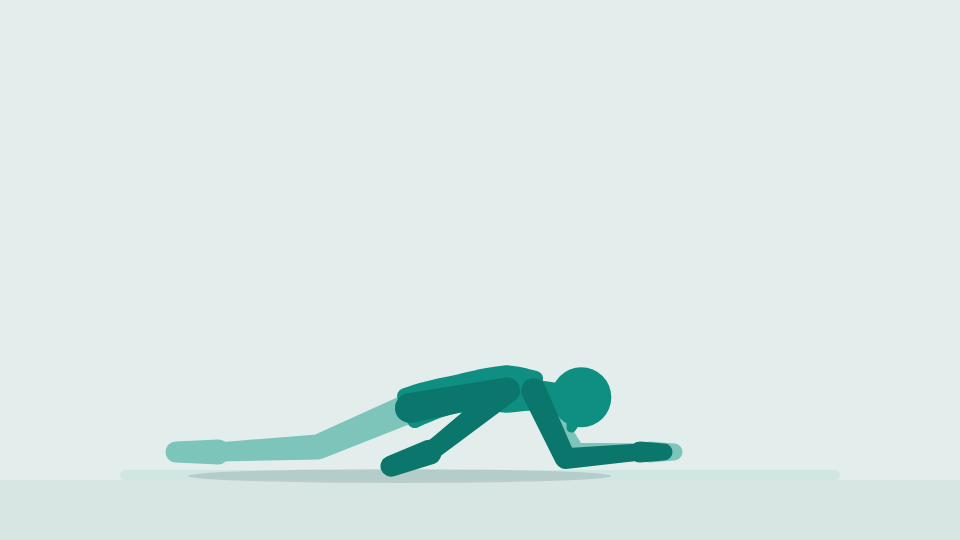
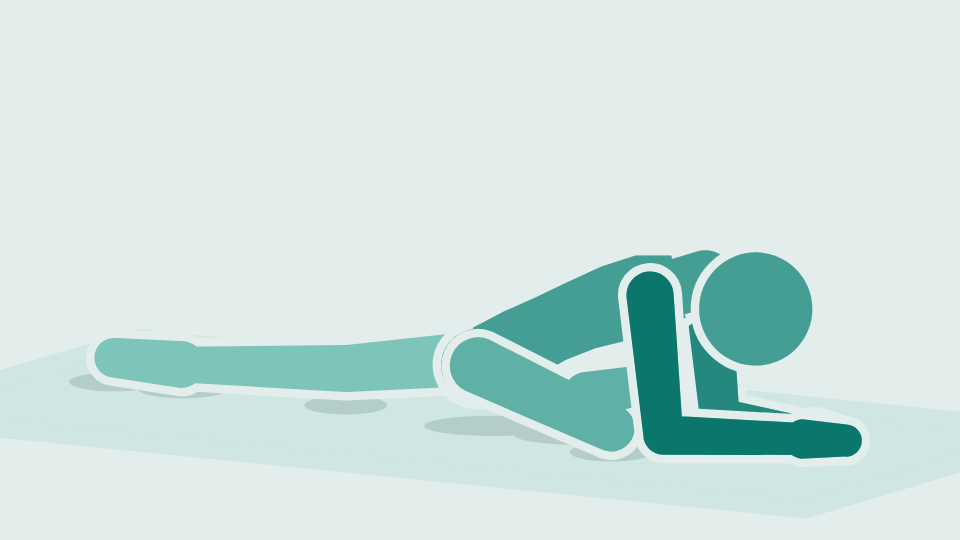
Add 3D animation for Pigeon Stretch
- From all fours the back leg stretches straight out first, the hips easing back over the
  planted right knee; then the right knee slides forward low to behind the wrist as the hips
  come down, the shin sweeping round to lie across, and the body folds onto the forearms.
- Shared helpers for stretching the back leg out from all fours and leaning onto the hands or
  forearms.
- Test for the order of the setup, the pigeon shape and the fold; README migration list and
  library photo updated.

Claude-Session: https://claude.ai/code/session_01Rr2sE7QdRG7sS5dnAH1qhg

Changed region(s): [[0.0625, 0.4444, 0.9062, 0.9185]]

diff --git a/src/data/exercise-animations-3d.ts b/src/data/exercise-animations-3d.ts
@@ -4010,3 +4010,191 @@ export const COW_FACE_ARMS_3D: Clip3D = {
     ...alongArc(2200, COW_FACE_STEPS, (t) => cowFaceAt(1 - t)),
   ],
 };
+
+// --- From all fours, the left leg stretching straight back, and leaning onto the hands or forearms: for the pigeon stretch ---
+
+/** On all fours the hips are over the knees, the right one here on the floor. */
+const ALL_FOURS_RIGHT_KNEE: Vec3 = [0, ANKLE_Y, SKELETON.hip];
+/** With the back leg stretched out, the hips have rolled back this far around the planted right knee. */
+const LEG_BACK_HIPS_BACK = 25;
+/** The hips this far (0 to 1) into rolling back around the right knee as the left leg stretches out. */
+const hipsRolledBack = (extend: number): Vec3 => {
+  const back = radians(LEG_BACK_HIPS_BACK * extend);
+  return [ALL_FOURS_RIGHT_KNEE[0] - SKELETON.thigh * Math.sin(back), ANKLE_Y + SKELETON.thigh * Math.cos(back), 0];
+};
+/** The direction a straight back leg runs in from a hip at this height down to the top of its foot on the floor. */
+const backLineFrom = (hipY: number): Vec3 => {
+  const drop = hipY - ANKLE_Y;
+  const length = SKELETON.thigh + SKELETON.shin;
+  return [-Math.sqrt(length ** 2 - drop ** 2) / length, -drop / length, 0];
+};
+/**
+ * The left foot, from the leg kneeling on all fours (0) to stretched straight back behind `pelvis`
+ * (1), the toes on the floor. The knee slides back along the floor a thigh's length behind the hip
+ * and the shin swings into line with the thigh, so the knee lifts off the floor only as the leg
+ * straightens. Left to its pole, the knee dropped through the floor while the hips were still high.
+ */
+const leftLegBack = (pelvis: Vec3, extend: number): Pin => {
+  const hip: Vec3 = [pelvis[0], pelvis[1], -SKELETON.hip];
+  const line = backLineFrom(hip[1]);
+  const kneeY = mix(ANKLE_Y, hip[1] + SKELETON.thigh * line[1], extend);
+  const knee: Vec3 = [hip[0] - Math.sqrt(Math.max(0, SKELETON.thigh ** 2 - (hip[1] - kneeY) ** 2)), kneeY, -SKELETON.hip];
+  const shin = turnToward([-1, 0, 0], line, extend);
+  // The knee is always below the line from the hip to the foot, so pointing it at the floor puts it
+  // there; aimed at the knee itself, the pole came to nothing once the leg was straight.
+  return { at: along3(knee, shin, 0.998 * SKELETON.shin), toward: [-1, 0, 0], pole: [0, -1, 0] };
+};
+/** A direction as a unit vector, from any list of three numbers. */
+const unitOf = (v: readonly number[]): Vec3 => {
+  const length = Math.hypot(...v);
+  return [v[0] / length, v[1] / length, v[2] / length];
+};
+
+/**
+ * The lean, between `from` and `to`, at which `gap(lean)` comes to zero, for a body tipping forward
+ * until its shoulders are where the arms reach. `gap` has to grow (or shrink) steadily across it.
+ */
+const leanWhere = (gap: (lean: number) => number, from: number, to: number): number => {
+  let [a, b] = [from, to];
+  const rising = gap(b) > gap(a);
+  for (let i = 0; i < 40; i++) {
+    const middle = (a + b) / 2;
+    if (gap(middle) > 0 === rising) b = middle;
+    else a = middle;
+  }
+  return (a + b) / 2;
+};
+/** An elbow resting on the floor sits this high, and a forearm flat on it. */
+const ELBOW_Y = 10;
+/**
+ * The forearm flat on the floor, pointing ahead from an elbow on the floor at `elbow`, the palm down.
+ * Its wrist goes where the forearm reaches, with the elbow bending down to the floor.
+ */
+const forearmDown = (shoulder: Vec3, elbow: Vec3, inward: number): Pin => {
+  const along = Math.sqrt(SKELETON.forearm ** 2 - (ELBOW_Y - WRIST_Y) ** 2);
+  const turn = radians(inward);
+  const wrist: Vec3 = [elbow[0] + along * Math.cos(turn), WRIST_Y, elbow[2] - along * Math.sin(turn)];
+  return pinVia(shoulder, elbow, wrist, [Math.cos(turn), 0, -Math.sin(turn)]);
+};
+
+// --- Pigeon stretch: from all fours, the right knee comes forward behind the wrist with the shin across, the left leg slides back, and the body folds over the front shin ---
+
+/**
+ * In the pigeon the hips sit low and square, resting on the front shin's side. The front knee rests
+ * on the floor behind the right wrist, out a little to the side, and the shin lies across in front
+ * of the hips, the foot in front of the left hip.
+ */
+const PIGEON_PELVIS: Vec3 = [-35, 36, 0];
+const PIGEON_KNEE: Vec3 = [60, ANKLE_Y, 38];
+const PIGEON_ANKLE: Vec3 = toward(PIGEON_KNEE, [-2, ANKLE_Y, -42], SKELETON.shin);
+/** Folded, the back rounds and the forehead comes down toward the hands. */
+const PIGEON_FOLD = { spine: 18, neck: 24 };
+/** The forearms come down angled in a little toward each other, in front of the shin. */
+const PIGEON_FOREARMS_IN = 18;
+
+/** The back leg is straight by this far into the setup, before the front knee comes forward. */
+const PIGEON_EXTEND_ENDS = 0.45;
+/**
+ * The legs, from all fours (0) to the pigeon (1). First the left leg stretches straight back, its
+ * knee sliding back along the floor and then lifting as the leg straightens onto the toes, while
+ * the hips ease back and down around the right knee, which stays planted and bends further. Then
+ * the right knee lifts and comes forward, the shin swinging round to lie across, as the hips sink
+ * to the floor and the back leg slides on out behind.
+ */
+const pigeonLegs = (t: number): { pelvis: Vec3; rightFoot: Pin; leftFoot: Pin } => {
+  const extend = phase(t, 0, PIGEON_EXTEND_ENDS);
+  const knee = phase(t, PIGEON_EXTEND_ENDS, 1);
+  const lift = Math.sin(Math.PI * knee);
+  // The right knee slides forward just off the floor to behind the wrist, and the hips come down
+  // with it, a thigh's length from it the whole way. Swung up through the air under the chest
+  // instead, the shin flipped up and back behind the knee.
+  const kneeLine = mix3(ALL_FOURS_RIGHT_KNEE, PIGEON_KNEE, knee);
+  const kneeAt: Vec3 = [kneeLine[0], kneeLine[1] + 10 * lift, kneeLine[2]];
+  const hipX = mix(hipsRolledBack(1)[0], PIGEON_PELVIS[0], knee);
+  const reach = SKELETON.thigh ** 2 - (kneeAt[0] - hipX) ** 2 - (kneeAt[2] - SKELETON.hip) ** 2;
+  const pelvis: Vec3 = knee > 0 ? [hipX, kneeAt[1] + Math.sqrt(Math.max(0, reach)), 0] : hipsRolledBack(extend);
+  const rightHip: Vec3 = [pelvis[0], pelvis[1], SKELETON.hip];
+  // The shin sweeps round low under the body, from lying straight back to lying across, the foot
+  // just off the floor on the way.
+  const shinTo: Vec3 = [(PIGEON_ANKLE[0] - PIGEON_KNEE[0]) / SKELETON.shin, 0, (PIGEON_ANKLE[2] - PIGEON_KNEE[2]) / SKELETON.shin];
+  const shin = unitOf(turnToward([-1, 0, 0], shinTo, knee).map((v, i) => v + (i === 1 ? 0.12 * lift : 0)));
+  const ankle = along3(kneeAt, shin, 0.999 * SKELETON.shin);
+  return {
+    pelvis,
+    rightFoot: { ...pinVia(rightHip, kneeAt, ankle), toward: turnToward([-1, 0, 0], [0.2, 0, -1], knee) },
+    leftFoot: leftLegBack(pelvis, extend),
+  };
+};
+
+/**
+ * From all fours (0) into the pigeon on straight arms, the hands planted where they were (1), then
+ * folded forward onto the forearms (2). The body tips forward as far as keeps the shoulders where
+ * the arms reach.
+ */
+const pigeonAt = (t: number): Pose3 => {
+  const legs = pigeonLegs(Math.min(1, t));
+  const fold = phase(t, 1, 2);
+  const spine = PIGEON_FOLD.spine * fold;
+  const body = (lean: number): Pose3 => ({
+    pelvis: legs.pelvis,
+    lean,
+    spine: { flex: spine },
+    neck: { flex: mix(-lean * 0.35, PIGEON_FOLD.neck, fold) },
+    pins: { rightFoot: legs.rightFoot, leftFoot: legs.leftFoot },
+  });
+  const planted = (side: 1 | -1): Vec3 => [112, WRIST_Y, side * 30];
+  // Up on the hands the arms are a little bent; folded, the shoulders are an upper arm above the floor.
+  const reach = 0.97 * ARM_REACH;
+  const upLean = leanWhere((l) => distance(solvePose(body(l)).rightArm[0], planted(1)) - reach, -20, 95);
+  const downLean = fold > 0 ? leanWhere((l) => solvePose(body(l)).rightArm[0][1] - (SKELETON.upperArm + ELBOW_Y), 20, 110) : upLean;
+  const pose = body(mix(upLean, downLean, fold));
+  const skeleton = solvePose(pose);
+  const hand = (side: 1 | -1): Pin => {
+    const shoulder = shoulderOf(skeleton, side);
+    const onHand: Pin = { at: planted(side), toward: [1, 0, 0], pole: [-1, 0, side * 0.4] };
+    const forearm = forearmDown(shoulder, [shoulder[0] + 8, ELBOW_Y, side * 30], side * PIGEON_FOREARMS_IN);
+    const pin = mixPin(onHand, forearm, fold);
+    return { ...pin, at: withinReach(shoulder, pin.at, 0.999 * ARM_REACH) };
+  };
+  return { ...pose, pins: { ...pose.pins, rightHand: hand(1), leftHand: hand(-1) } };
+};
+const PIGEON_ALL_FOURS = pigeonAt(0);
+const PIGEON_UP = pigeonAt(1);
+const PIGEON_FOLDED = pigeonAt(2);
+const PIGEON_SETUP_STEPS = 24;
+const PIGEON_FOLD_STEPS = 16;
+
+export const PIGEON_STRETCH_3D: Clip3D = {
+  view: '3d',
+  // From the front leg's side, a little in front and only just above the floor: the knee coming
+  // forward and the back leg sliding out are flat on the screen, and folded, the front knee shows
+  // beside the chest rather than under it. From higher up the chest came down over the knee.
+  camera: { yaw: 30, pitch: 10 },
+  highlight: ['rightLeg', 'leftLeg'],
+  // The front leg is on the camera's side of the body the whole way. By depth, the knee lifting
+  // forward went under the hips it's in front of, and the leg flipped under the chest partway
+  // into the fold.
+  over: ['rightLeg'],
+  // The right shin crosses in front of the left hip, and the foot swings over the left leg on its
+  // way there; the two swapped back and forth as it passed.
+  //
+  // The right knee comes forward just inside the right arm, about as deep as it, and lands behind
+  // the wrist with the arm in front of it; they swapped as the knee went past.
+  behind: [
+    ['leftLeg', 'rightLeg'],
+    ['rightLeg', 'rightArm'],
+  ],
+  // Folded onto the forearms.
+  stillFrame: 3 + PIGEON_SETUP_STEPS + PIGEON_FOLD_STEPS,
+  keyframes: [
+    { ms: 0, pose: PIGEON_ALL_FOURS },
+    { ms: 500, pose: PIGEON_ALL_FOURS },
+    ...alongArc(2600, PIGEON_SETUP_STEPS, (t) => pigeonAt(t)),
+    { ms: 600, pose: PIGEON_UP },
+    ...alongArc(2000, PIGEON_FOLD_STEPS, (t) => pigeonAt(1 + t)),
+    { ms: 3500, pose: PIGEON_FOLDED },
+    ...alongArc(1800, PIGEON_FOLD_STEPS, (t) => pigeonAt(2 - t)),
+    { ms: 300, pose: PIGEON_UP },
+    ...alongArc(2400, PIGEON_SETUP_STEPS, (t) => pigeonAt(1 - t)),
+  ],
+};

diff --git a/src/lib/rig3d.test.ts b/src/lib/rig3d.test.ts
@@ -54,6 +54,7 @@ import {
   CROSS_BODY_SHOULDER_STRETCH_3D,
   OVERHEAD_TRICEPS_STRETCH_3D,
   COW_FACE_ARMS_3D,
+  PIGEON_STRETCH_3D,
   LYING_WINDSHIELD_WIPER_HOLD_3D,
   REVERSE_TABLETOP_3D,
   KNEELING_WRIST_STRETCH_3D,
@@ -2602,5 +2603,47 @@ describe('3D clips', () => {
       if (order.indexOf('leftArm') > order.indexOf('torso')) expect(order.indexOf('rightArm')).toBeLessThan(order.indexOf('leftArm'));
     }
     expect(orders.filter((order) => order.indexOf('leftArm') > order.indexOf('torso')).length).toBeGreaterThan(orders.length / 2);
+  });
+
+  it('stretches the back leg straight behind from all fours, then brings the front knee forward behind the wrist with the shin across, and folds forward onto the forearms, in the pigeon stretch', () => {
+    const clip = PIGEON_STRETCH_3D;
+    const first = solvePose(clip.keyframes[0].pose);
+    // The hands stay planted from all fours until the body folds forward.
+    const upAt = clip.keyframes.findIndex((frame, i) => i > 1 && frame.ms === 600);
+    const settingUp = samples({ ...clip, keyframes: clip.keyframes.slice(0, upAt + 1) }).map(solvePose);
+    for (const { rightArm, leftArm, rightLeg } of settingUp) {
+      expect(distance(rightArm[2], first.rightArm[2])).toBeLessThan(0.5);
+      expect(distance(leftArm[2], first.leftArm[2])).toBeLessThan(0.5);
+      // The right foot comes off the floor on its way forward, rather than dragging through the left leg.
+      expect(rightLeg[2][1]).toBeGreaterThanOrEqual(12.5);
+    }
+    // The back leg is straight before the front knee leaves the floor.
+    const kneeLifts = settingUp.find(({ rightLeg }) => rightLeg[1][1] > 16)!;
+    expect(angleAt(kneeLifts.leftLeg[0], kneeLifts.leftLeg[1], kneeLifts.leftLeg[2])).toBeGreaterThan(170);
+    const folded = solvePose(clip.keyframes[clip.stillFrame].pose);
+    const [rightHip, frontKnee, frontAnkle] = folded.rightLeg;
+    const [leftHip, backKnee, backAnkle] = folded.leftLeg;
+    // The front knee rests on the floor behind the right wrist's starting spot, and the shin lies
+    // across in front of the hips, the foot toward the left hip.
+    expect(frontKnee[1]).toBeLessThan(15);
+    expect(frontAnkle[1]).toBeLessThan(15);
+    expect(frontKnee[0]).toBeLessThan(first.rightArm[2][0]);
+    expect(frontKnee[2]).toBeGreaterThan(rightHip[2]);
+    expect(frontAnkle[2]).toBeLessThan(leftHip[2]);
+    expect(frontAnkle[0]).toBeGreaterThan(leftHip[0]);
+    // The back leg lies straight behind, the knee down.
+    expect(angleAt(leftHip, backKnee, backAnkle)).toBeGreaterThan(170);
+    expect(backAnkle[0]).toBeLessThan(leftHip[0] - 180);
+    expect(backKnee[1]).toBeLessThan(30);
+    // The hips are square and low, and the forearms are flat on the floor in front of the shin.
+    expect(rightHip[0]).toBeCloseTo(leftHip[0], 0);
+    expect(folded.spine[0][1]).toBeLessThan(50);
+    for (const [, elbow, wrist] of [folded.rightArm, folded.leftArm]) {
+      expect(elbow[1]).toBeLessThan(15);
+      expect(wrist[1]).toBeCloseTo(11, 0);
+      expect(elbow[0]).toBeGreaterThan(frontKnee[0]);
+    }
+    expect(longestHold(clip)).toBeGreaterThanOrEqual(3000);
+    expect(new Set(drawOrders(clip)).size).toBe(1);
   });
 });

diff --git a/src/data/exercises.ts b/src/data/exercises.ts
@@ -41,6 +41,7 @@ import {
   NINETY_TO_NINETY_ROTATIONS_3D,
   NINETY_TO_NINETY_SIDE_FOOT_LIFTS_3D,
   PANCAKE_3D,
+  PIGEON_STRETCH_3D,
   PRAYER_POSE_3D,
   PUPPY_POSE_3D,
   PYRAMID_STRETCH_3D,
@@ -70,7 +71,6 @@ import {
   MANUAL_FLEXOR_FOREARM_STRETCH,
   OPEN_BOOK,
   PEC_STRETCH_ON_THE_GROUND,
-  PIGEON_STRETCH,
   REVERSE_CLAMSHELLS,
   REVERSE_SCORPION,
   SCAP_MOBILIZATION,
@@ -480,7 +480,7 @@ const ALL_EXERCISES: Exercise[] = [
       'Square your hips, fold forward over your front shin and hold, then switch sides',
     ],
     photo: require('@/assets/images/exercises/pigeon-stretch.png'),
-    animation: PIGEON_STRETCH,
+    animation: PIGEON_STRETCH_3D,
     twoSided: true,
   },
   {

diff --git a/README.md b/README.md
@@ -182,10 +182,11 @@ Moved to the new engine:
 | Cross-body shoulder stretch | Library | `CROSS_BODY_SHOULDER_STRETCH_3D` |
 | Overhead triceps stretch | Library | `OVERHEAD_TRICEPS_STRETCH_3D` |
 | Cow face arms | Library | `COW_FACE_ARMS_3D` |
+| Pigeon stretch | Library | `PIGEON_STRETCH_3D` |
 
 Still on the old engine (clip names in `exercise-animations.ts`). Where a clip needs something the new engine doesn't have yet, it's noted.
 
-All ten flexibility tests are on the new engine. The last six to move (knee to wall, the two seated hip rotations, sit and reach, knee to chest and straight leg raise) haven't been checked on a device yet, so their old clips are still in `exercise-animations.ts`; delete them once they have. The same goes for the three 90 to 90 clips in the library (`NINETY_TO_NINETY_ROTATIONS` has to stay either way: windshield wipers with knee lift is built on it), and for the two pancake clips (`PANCAKE_UP` has to stay either way: the seated straddle side bend is built on it), and for the active straight leg raise, ankle mobilization, the behind the back chest opener, back lying reverse pigeon, belly down foot splay, the five squats (bottom squat, bottom squat rotation, squat to stand, Cossack squat and resting Cossack squat), Blackburn, butterfly, cobra to prayer, downward facing dog, prayer pose, puppy pose, lying knee hug, lying hamstring stretch, seated pike stretch, three legged downward facing dog, standing forward fold, kneeling wrist stretch, floor angels, reverse tabletop, knight stretch, horse stance, the lying windshield wiper hold, frog stretch, frog rocks, knight to hamstring, couch stretch, pyramid stretch, wrist rocks, elephant walk, the seated straddle side bend, seated shoulder extension, the half kneeling frog stretch, the neck side stretch, the cross-body shoulder stretch, the overhead triceps stretch and cow face arms.
+All ten flexibility tests are on the new engine. The last six to move (knee to wall, the two seated hip rotations, sit and reach, knee to chest and straight leg raise) haven't been checked on a device yet, so their old clips are still in `exercise-animations.ts`; delete them once they have. The same goes for the three 90 to 90 clips in the library (`NINETY_TO_NINETY_ROTATIONS` has to stay either way: windshield wipers with knee lift is built on it), and for the two pancake clips (`PANCAKE_UP` has to stay either way: the seated straddle side bend is built on it), and for the active straight leg raise, ankle mobilization, the behind the back chest opener, back lying reverse pigeon, belly down foot splay, the five squats (bottom squat, bottom squat rotation, squat to stand, Cossack squat and resting Cossack squat), Blackburn, butterfly, cobra to prayer, downward facing dog, prayer pose, puppy pose, lying knee hug, lying hamstring stretch, seated pike stretch, three legged downward facing dog, standing forward fold, kneeling wrist stretch, floor angels, reverse tabletop, knight stretch, horse stance, the lying windshield wiper hold, frog stretch, frog rocks, knight to hamstring, couch stretch, pyramid stretch, wrist rocks, elephant walk, the seated straddle side bend, seated shoulder extension, the half kneeling frog stretch, the neck side stretch, the cross-body shoulder stretch, the overhead triceps stretch, cow face arms and the pigeon stretch.
 
 Library (`src/data/exercises.ts`):
 
@@ -205,7 +206,6 @@ Library (`src/data/exercises.ts`):
 | Manual flexor forearm stretch | `MANUAL_FLEXOR_FOREARM_STRETCH` | |
 | Open book | `OPEN_BOOK` | |
 | Pec stretch on the ground | `PEC_STRETCH_ON_THE_GROUND` | |
-| Pigeon stretch | `PIGEON_STRETCH` | |
 | Reverse clamshells | `REVERSE_CLAMSHELLS` | |
 | Reverse scorpion | `REVERSE_SCORPION` | |
 | Scap mobilization | `SCAP_MOBILIZATION` | |
